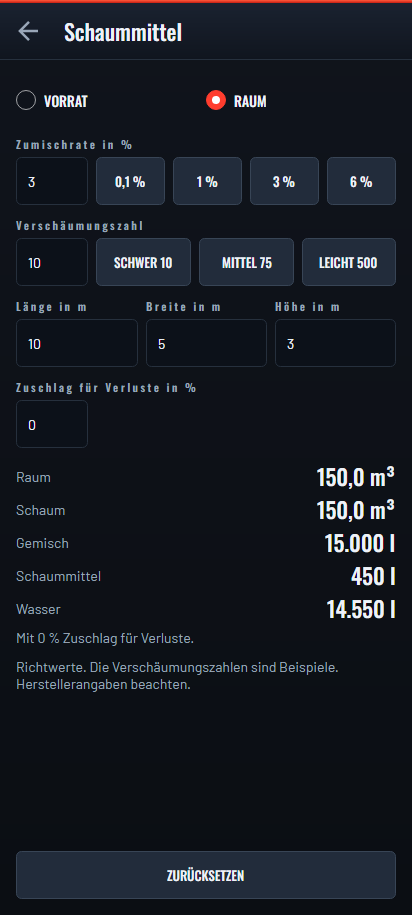
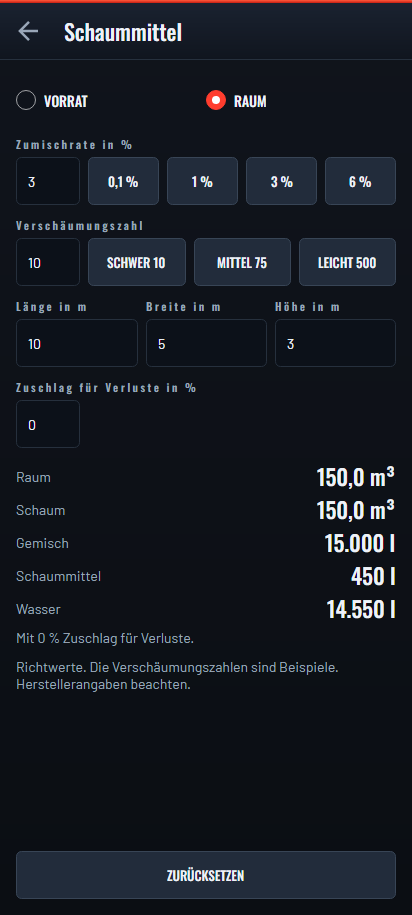
fix(schaummittel): keep every preset 48 dp wide on a 320 dp phone
Four presets beside a 72 dp field left 46 dp each on the narrowest
phones. The short fields are 64 dp now, which still holds a number of
four digits, so the buttons reach 48 dp.

diff --git a/tests/Helfer.Acceptance.Tests/DemoFlowRenderTests.cs b/tests/Helfer.Acceptance.Tests/DemoFlowRenderTests.cs
@@ -234,6 +234,20 @@ public class DemoFlowRenderTests
         Assert.Equal(WidthOf("Zumischrate in %"), WidthOf("Zuschlag für Verluste in %"), precision: 0);
     }
 
+    [AvaloniaFact]
+    public void Every_schaummittel_preset_stays_glove_wide_on_a_320_dp_phone()
+    {
+        var phone = new PhoneRender();
+        phone.Window.Width = 320;
+        OpenSchaummittel(phone);
+
+        var presets = phone.Window.GetVisualDescendants().OfType<Button>()
+            .Where(b => b.Classes.Contains("preset")).ToList();
+
+        Assert.Equal(7, presets.Count);
+        Assert.All(presets, b => Assert.True(b.Bounds.Width >= 48, $"{b.Content} is {b.Bounds.Width} wide"));
+    }
+
     // 780 dp is about what a 915 dp phone leaves between its status and navigation bars.
     [AvaloniaFact]
     public void A_whole_schaummittel_room_calculation_fits_without_scrolling()
